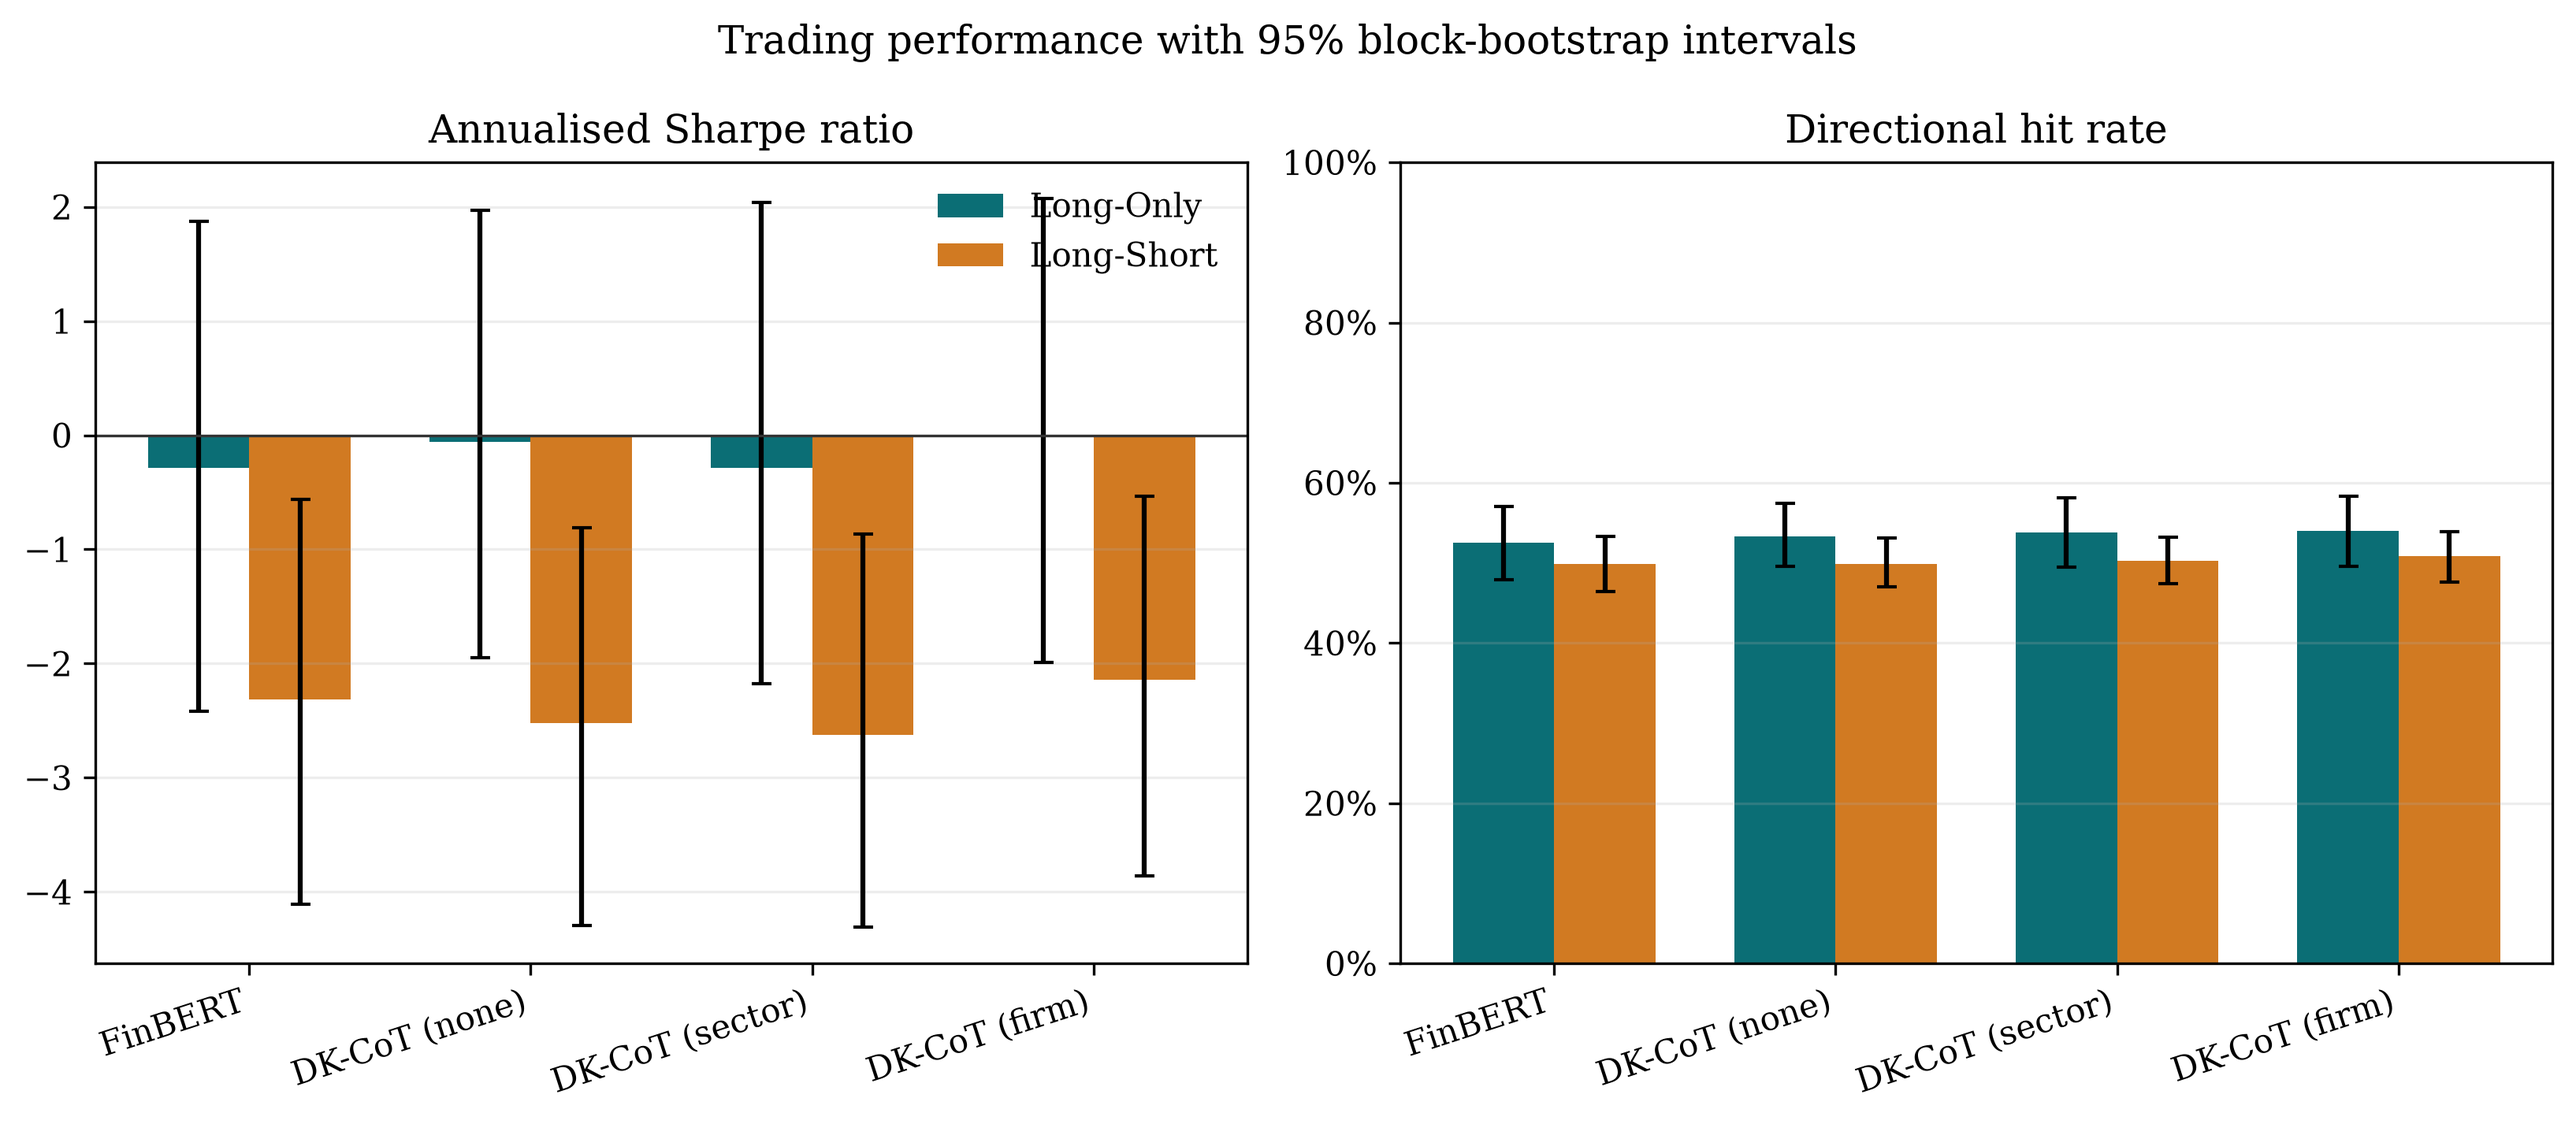
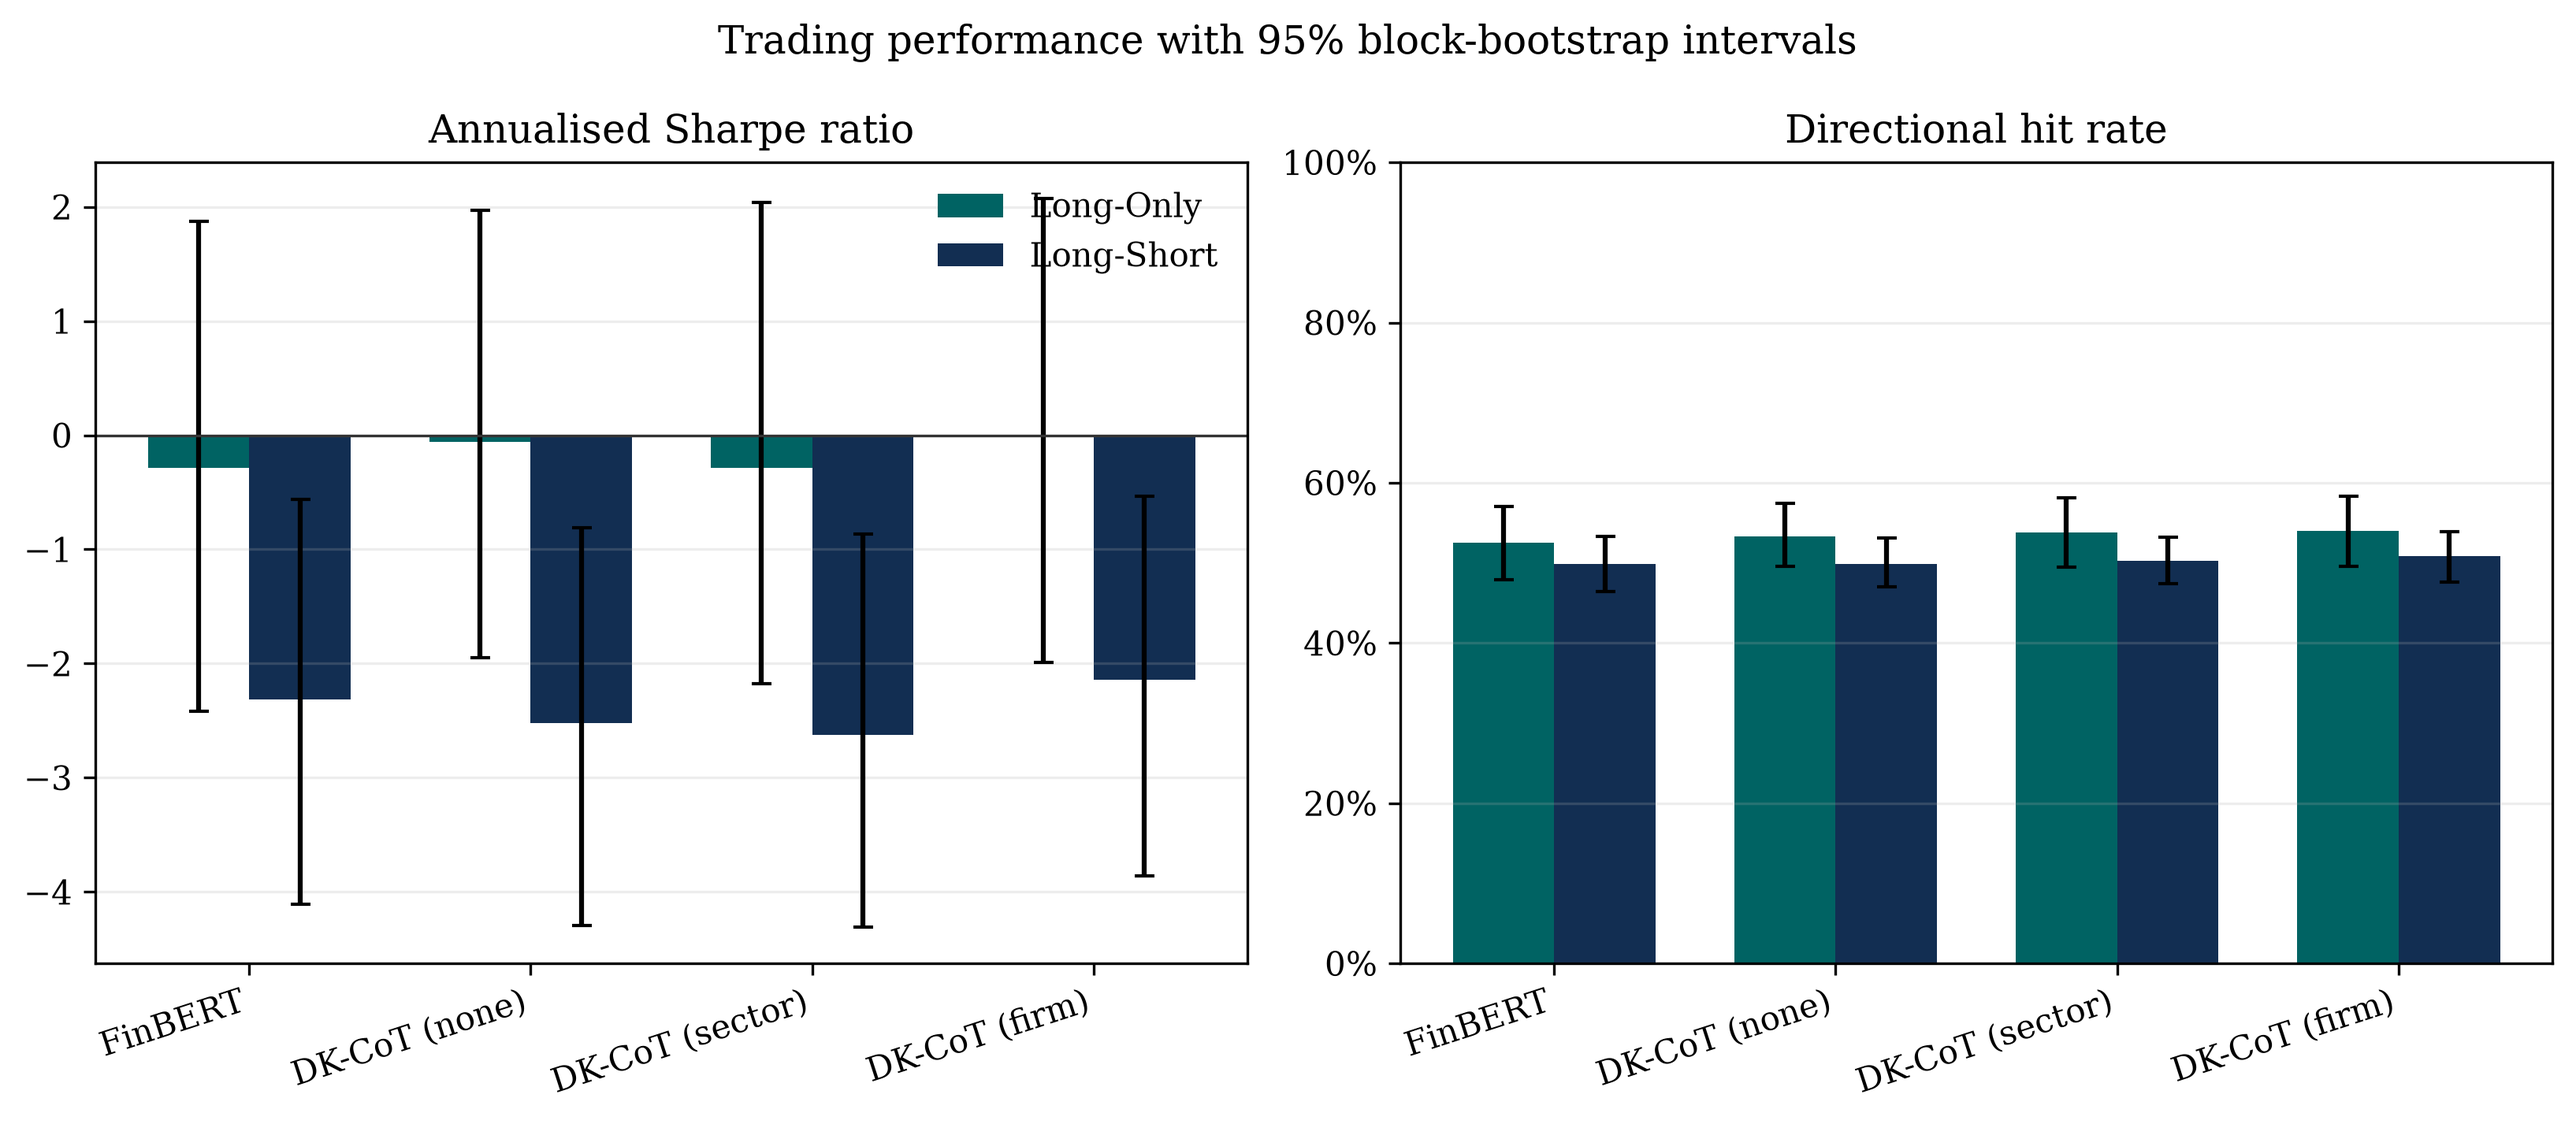
Clean 07 and update config and figures

diff --git a/pipeline/07_evaluate.py b/pipeline/07_evaluate.py
@@ -3,6 +3,7 @@ import matplotlib.pyplot as plt
 import numpy as np
 import pandas as pd
 
+from matplotlib.colors import LinearSegmentedColormap
 from sklearn.metrics import accuracy_score, confusion_matrix, f1_score
 from scipy import stats
 from typing import TypedDict
@@ -17,6 +18,10 @@ from uk_dkcot.config import (
     FINBERT_DISPLAY_NAME,
     FINBERT_MODEL_NAME,
     FINBERT_PREDICTIONS_CSV_FILE_NAME,
+    FIGURE_DEEP_BLUE,
+    FIGURE_NAVY,
+    FIGURE_PRIMARY_TEAL,
+    FIGURE_SECONDARY_TEAL,
     GOLD_LABELS_CSV_FILE_NAME,
     HEADLINE_ID_COLUMN,
     KNOWLEDGE_LEVEL_COLUMN,
@@ -56,22 +61,33 @@ class McNemarTestResult(TypedDict):
     p_value: float
     significant_at_0_05: bool
 
-def calculate_accuracy_and_f1_score(gold_labels, predictions):
+class ClassificationMetrics(TypedDict):
+    accuracy: float # Must match the variable ACCURACY_COLUMN from the config.py
+    macro_f1: float # Must match the variable MACRO_F1_COLUMN from the config.py
+
+class BootstrapConfidenceIntervals(TypedDict):
+    accuracy_ci_lower: float
+    accuracy_ci_upper: float
+    macro_f1_ci_lower: float
+    macro_f1_ci_upper: float
+
+
+def calculate_accuracy_and_f1_score(gold_labels, predictions) -> ClassificationMetrics:
     """Return accuracy and Macro-F1 for one prediction set."""
 
-    return {
-        ACCURACY_COLUMN: accuracy_score(gold_labels, predictions),
-        MACRO_F1_COLUMN: f1_score(
+    return ClassificationMetrics(
+        accuracy=accuracy_score(gold_labels, predictions),
+        macro_f1=f1_score(
             gold_labels,
             predictions,
             labels=SENTIMENT_LABELS,
             average="macro",
             zero_division=0,
         ),
-    }
+    )
 
 
-def calculate_bootstrap_confidence_intervals(gold_labels, model_predictions, seed):
+def calculate_bootstrap_confidence_intervals(gold_labels, model_predictions, seed) -> BootstrapConfidenceIntervals:
     """Estimate 95% confidence intervals by resampling headlines"""
 
     # Convert labels into NumPy arrays
@@ -106,12 +122,12 @@ def calculate_bootstrap_confidence_intervals(gold_labels, model_predictions, see
     # Bootstrap method: https://docs.scipy.org/doc/scipy/reference/generated/scipy.stats.bootstrap.html
     # This is the percentile bootstrap method
     # https://docs.scipy.org/doc/scipy/reference/generated/scipy.stats.bootstrap.html
-    return {
-        "accuracy_ci_lower": np.quantile(bootstrap_accuracy_values, 0.025),
-        "accuracy_ci_upper": np.quantile(bootstrap_accuracy_values, 0.975),
-        "macro_f1_ci_lower": np.quantile(bootstrap_macro_f1_values, 0.025),
-        "macro_f1_ci_upper": np.quantile(bootstrap_macro_f1_values, 0.975),
-    }
+    return BootstrapConfidenceIntervals(
+        accuracy_ci_lower=np.quantile(bootstrap_accuracy_values, 0.025),
+        accuracy_ci_upper=np.quantile(bootstrap_accuracy_values, 0.975),
+        macro_f1_ci_lower=np.quantile(bootstrap_macro_f1_values, 0.025),
+        macro_f1_ci_upper=np.quantile(bootstrap_macro_f1_values, 0.975),
+    )
 
 
 def get_mcnemar_test_values(first_correct, second_correct) -> tuple[int, int, float]:
@@ -288,7 +304,10 @@ def create_accuracy_and_macro_f1_figure(results_df, output_path):
     plt.rcParams.update({"font.family": "DejaVu Serif", "font.size": 10})
     positions = np.arange(len(results_df))
     width = 0.36
-    colours = {ACCURACY_COLUMN: "#0B6E75", MACRO_F1_COLUMN: "#D17A22"}
+    colours = {
+        ACCURACY_COLUMN: FIGURE_PRIMARY_TEAL,
+        MACRO_F1_COLUMN: FIGURE_DEEP_BLUE,
+    }
 
     figure, axis = plt.subplots(figsize=(9, 5.3))
 
@@ -327,6 +346,10 @@ def create_confusion_matrices_for_each_model_variant(paired_predictions, output_
     """Save one confusion matrix for each evaluated model variant."""
 
     figure, axes = plt.subplots(2, 2, figsize=(9, 8.2))
+    colour_gradient = LinearSegmentedColormap.from_list(
+        "defined_colours",
+        ["white", FIGURE_SECONDARY_TEAL, FIGURE_NAVY],
+    )
     matrices = {
         name: confusion_matrix(
             data[LABEL_GOLD_COLUMN],
@@ -337,9 +360,9 @@ def create_confusion_matrices_for_each_model_variant(paired_predictions, output_
     }
     maximum_count = max(matrix.max() for matrix in matrices.values())
 
-    for axis, (name, data) in zip(axes.flat, paired_predictions.items()):
+    for axis, name in zip(axes.flat, paired_predictions.items()):
         matrix = matrices[name]
-        image = axis.imshow(matrix, cmap="YlGnBu", vmin=0, vmax=maximum_count)
+        image = axis.imshow(matrix, cmap=colour_gradient, vmin=0, vmax=maximum_count)
         for row in range(len(SENTIMENT_LABELS)):
             for column in range(len(SENTIMENT_LABELS)):
                 colour = "white" if matrix[row, column] > matrix.max() / 2 else "black"
@@ -379,12 +402,12 @@ def main():
 
     gold_df, predictions_df = load_and_get_gold_labels_and_model_predictions_data()
     results_df, paired_predictions = evaluate_models(gold_df, predictions_df)
-    significance_df = run_mcnemar_tests_per_model_variant(paired_predictions)
+    mc_nemar_tests_df = run_mcnemar_tests_per_model_variant(paired_predictions)
 
-    results_path = tables_directory / CLASSIFICATION_RESULTS_CSV_FILE_NAME
+    classification_results_path = tables_directory / CLASSIFICATION_RESULTS_CSV_FILE_NAME
     significance_path = tables_directory / PAIRED_SIGNIFICANCE_TESTS_CSV_FILE_NAME
-    results_df.to_csv(results_path, index=False)
-    significance_df.to_csv(significance_path, index=False)
+    results_df.to_csv(classification_results_path, index=False)
+    mc_nemar_tests_df.to_csv(significance_path, index=False)
 
     create_accuracy_and_macro_f1_figure(
         results_df,
@@ -394,12 +417,6 @@ def main():
         paired_predictions,
         figures_directory / CLASSIFICATION_CONFUSION_MATRICES_PNG_FILE_NAME,
     )
-
-    print(results_df.to_string(index=False, float_format=lambda value: f"{value:.4f}"))
-    print("\nPaired exact McNemar tests:")
-    print(significance_df.to_string(index=False, float_format=lambda value: f"{value:.4f}"))
-    print(f"\nSaved tables to {tables_directory}")
-    print(f"Saved figures to {figures_directory}")
 
 
 if __name__ == "__main__":

diff --git a/pipeline/08_backtest.py b/pipeline/08_backtest.py
@@ -15,6 +15,10 @@ from uk_dkcot.config import (
     FINBERT_DISPLAY_NAME,
     FINBERT_MODEL_NAME,
     FINBERT_PREDICTIONS_CSV_FILE_NAME,
+    FIGURE_DARK_TEAL,
+    FIGURE_DEEP_BLUE,
+    FIGURE_NAVY,
+    FIGURE_PRIMARY_TEAL,
     HEADLINE_ID_COLUMN,
     HEADLINES_ALIGNED_PRICES_CSV_FILE_NAME,
     KNOWLEDGE_LEVEL_COLUMN,
@@ -333,7 +337,7 @@ def save_backtest_summary_figure(report_table, output_path):
     for (row, column), cell in table.get_celld().items():
         cell.set_edgecolor("#D6DEDA")
         if row == 0:
-            cell.set_facecolor("#0B6E75")
+            cell.set_facecolor(FIGURE_NAVY)
             cell.set_text_props(color="white", weight="bold")
         elif row % 2 == 0:
             cell.set_facecolor("#F1F5F3")
@@ -350,17 +354,28 @@ def save_cumulative_return_figure(daily_curves, output_path):
     """Save cumulative net-return curves for both trading strategies."""
 
     plt.rcParams.update({"font.family": "DejaVu Serif", "font.size": 10})
-    colours = ["#0B6E75", "#D17A22", "#4C78A8", "#8C564B"]
+    colours = [
+        FIGURE_NAVY,
+        FIGURE_DEEP_BLUE,
+        FIGURE_DARK_TEAL,
+        FIGURE_PRIMARY_TEAL,
+    ]
+    line_styles = ["-", "--", "-.", ":"]
     figure, axes = plt.subplots(2, 1, figsize=(10, 8), sharex=True)
 
     for axis, strategy in zip(axes, STRATEGIES):
-        for colour, (name, _, _) in zip(colours, MODEL_VARIANTS):
+        for colour, line_style, (name, _, _) in zip(
+            colours,
+            line_styles,
+            MODEL_VARIANTS,
+        ):
             daily = daily_curves[(name, strategy)]
             axis.plot(
                 pd.to_datetime(daily["date"]),
                 daily["cumulative_return"] * 100,
                 label=name,
                 color=colour,
+                linestyle=line_style,
                 linewidth=1.7,
             )
         axis.axhline(0, color="#333333", linewidth=0.8)
@@ -380,7 +395,7 @@ def save_backtest_metrics_figure(results_df, output_path):
     """Save Sharpe-ratio and hit-rate comparisons with confidence intervals."""
 
     figure, axes = plt.subplots(1, 2, figsize=(11, 4.8))
-    colours = {LONG_ONLY: "#0B6E75", LONG_SHORT: "#D17A22"}
+    colours = {LONG_ONLY: FIGURE_PRIMARY_TEAL, LONG_SHORT: FIGURE_DEEP_BLUE}
     positions = np.arange(len(MODEL_VARIANTS))
     width = 0.36
 

diff --git a/uk_dkcot/config.py b/uk_dkcot/config.py
@@ -37,6 +37,13 @@ BACKTEST_CUMULATIVE_RETURNS_PNG_FILE_NAME = "backtest_cumulative_returns.png"
 BACKTEST_METRICS_PNG_FILE_NAME = "backtest_metrics.png"
 BACKTEST_SUMMARY_TABLE_PNG_FILE_NAME = "backtest_summary_table.png"
 
+# Shared figure colours. This is to maintain consistency with the colours used for the graphics in the reports and poster and the graphics generated in the codebase
+FIGURE_PRIMARY_TEAL = "#006363"
+FIGURE_SECONDARY_TEAL = "#0A6A70"
+FIGURE_DARK_TEAL = "#09424C"
+FIGURE_DEEP_BLUE = "#122E52"
+FIGURE_NAVY = "#0D1427"
+
 # Shared sentiment labels used by manual labelling and model evaluation
 POSITIVE_LABEL = "positive"
 NEUTRAL_LABEL = "neutral"
